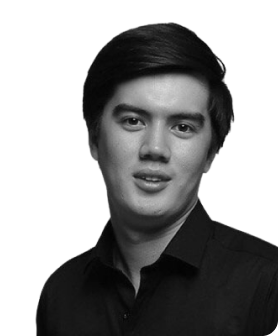
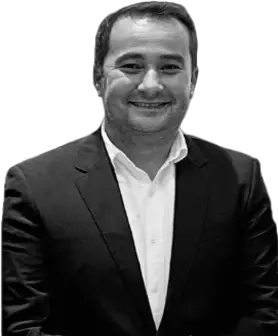
changes: CEO, Board Advisor, phone number, address

diff --git a/components/footer/Footer.jsx b/components/footer/Footer.jsx
@@ -32,7 +32,7 @@ function Footer() {
         console.log("Phone Clicked")
         try {
             generateETag('config', 'AW-10933023663/ZTcPCJ7qrNwDEK_not0o', {
-                'phone_conversion_number': '(332) 322-2244'
+                'phone_conversion_number': '(707) 717-4444'
             });
         } catch (e) {
             console.log("phone tracking", e)
@@ -83,7 +83,7 @@ function Footer() {
                     <li className={"text-white mb-3 text-16-24-400"}><Image width={20} height={20} src={FImage1}
                                                                             alt={"phone-icon"}/>&nbsp; &nbsp; <span
                         className={"text-white"}>
-                        <a href="tel:3323222244" onClick={handlePhoneClick}>(332) 322-2244</a>
+                        <a href="tel:3323222244" onClick={handlePhoneClick}>(707) 717-4444</a>
                     </span></li>
                     <li className={"text-white mb-3 text-16-24-400"}><Image width={20} height={20} src={FImage2}
                                                                             alt={"envelope-icon"}/>&nbsp; &nbsp;&nbsp;
@@ -95,11 +95,10 @@ function Footer() {
                                                                             alt={"location-icon"}/>&nbsp; &nbsp;<span
                         className={"text-white"}>
                         <a
-                            href="https://www.google.com/maps/place/8010+Sunport+Dr+STE+122,+Orlando,+FL+32809,+USA/@28.4503038,-81.3777283,17z/data=!3m1!4b1!4m5!3m4!1s0x88e77cfcf51958df:0xa3980848743cd73e!8m2!3d28.4502991!4d-81.3755396"
+                            href="https://www.google.com/maps/place/6925+Lake+Ellenor+Dr,+Orlando,+FL+32809/@28.4655806,-81.4023714,17z/data=!3m1!4b1!4m6!3m5!1s0x88e77d4979f909f9:0x7a5c0fe59d9724bd!8m2!3d28.4655759!4d-81.3997965!16s%2Fg%2F11kc745rrz?entry=ttu"
                             target={"#"}
                         >
-                        8010 Sunport Dr., Ste
-                        122, Orlando, Florida, 32809
+                        6925 Lake Ellenor Dr, <br/> &nbsp; &nbsp;&nbsp; &nbsp; &nbsp;Orlando, FL 32809
                     </a></span>
                     </li>
                 </ul>

diff --git a/pages/_home/EighthSection.jsx b/pages/_home/EighthSection.jsx
@@ -1,6 +1,6 @@
 import React from 'react';
 import Image from "next/image";
-import Human1 from '../../public/humans/image 33.png';
+import Human1 from '../../public/humans/kenny.png';
 import Human2 from '../../public/humans/image 34.png';
 import Human3 from '../../public/humans/image 35.png';
 import Human4 from '../../public/humans/image 36.png';
@@ -15,15 +15,15 @@ function EighthSection() {
                     <div className={"card-human2 overflow-hidden flex bg-blue-950 pt-16 rounded-2xl mb-4"}>
                         <Image src={Human2} alt={"human 2"}/>
                     </div>
-                    <p className={"text-20-24-700 mb-2"}>Kenny Abdul</p>
+                    <p className={"text-20-24-700 mb-2"}>Khusniddin Muradov</p>
                     <p className={"text-18-26-500 text-gray-450"}>Chief Executive Officer</p>
                 </div>
                 <div>
                     <div className={"card-human1 overflow-hidden flex bg-blue-950 pt-16 rounded-2xl mb-4"}>
                         <Image src={Human1} alt={"human 1"}/>
                     </div>
-                    <p className={"text-20-24-700 mb-2"}>Brett Fraser</p>
-                    <p className={"text-18-26-500 text-gray-450"}>Board Advisor</p>
+                    <p className={"text-20-24-700 mb-2"}>Kenny Abdul</p>
+                    <p className={"text-18-26-500 text-gray-450"}>Chief Operating Officer</p>
                 </div>
                 <div>
                     <div className={"card-human3 overflow-hidden flex bg-blue-950 pt-16 rounded-2xl mb-4"}>

diff --git a/pages/_home/Twelve.jsx b/pages/_home/Twelve.jsx
@@ -9,10 +9,10 @@ function Twelve() {
                 Sunshine state</h2>
                 <div data-aos={"fade-up"} data-aos-duration={"1000"} className={"h-80 flex items-end my-12 bg-rectangle"}>
                 <a
-                            href="https://www.google.com/maps/place/8010+Sunport+Dr+STE+122,+Orlando,+FL+32809,+USA/@28.4503038,-81.3777283,17z/data=!3m1!4b1!4m5!3m4!1s0x88e77cfcf51958df:0xa3980848743cd73e!8m2!3d28.4502991!4d-81.3755396"
+                            href="https://www.google.com/maps/place/6925+Lake+Ellenor+Dr,+Orlando,+FL+32809/@28.4655806,-81.4023714,17z/data=!3m1!4b1!4m6!3m5!1s0x88e77d4979f909f9:0x7a5c0fe59d9724bd!8m2!3d28.4655759!4d-81.3997965!16s%2Fg%2F11kc745rrz?entry=ttu"
                             target={"#"}
                         >
-                    <p className={"text-white text-30-44-600"} id={"faqs"} data-aos={"fade-up"} data-aos-duration={"1200"}>8010 Sunport dr, Suite #122, Orlando, FL 32809</p></a>
+                    <p className={"text-white text-30-44-600"} id={"faqs"} data-aos={"fade-up"} data-aos-duration={"1200"}>6925 Lake Ellenor Dr, Orlando, FL 32809</p></a>
                 </div>
             </div>
         </div>

diff --git a/components/navbar/Navbar.jsx b/components/navbar/Navbar.jsx
@@ -45,7 +45,7 @@ function Navbar() {
     const handlePhoneClick = () => {
         try {
             generateETag('config', 'AW-10933023663/ZTcPCJ7qrNwDEK_not0o', {
-                'phone_conversion_number': '(332) 322-2244'
+                'phone_conversion_number': '(707) 717-4444'
             });
         } catch (e) {
             console.log("phone tracking", e)
@@ -98,7 +98,7 @@ function Navbar() {
                     </li>
                     <li className={"nav-item phone hover:text-blue-550 cursor-pointer inline-block"}>
                         <a href="tel:3323222244" onClick={handlePhoneClick}
-                           className={!opened ? "nav-link phone" : "nav-link phone-mobile"}>(332) 322-2244</a>
+                           className={!opened ? "nav-link phone" : "nav-link phone-mobile"}>(707) 717-4444</a>
                     </li>
                 </ul>
             </nav>

diff --git a/pages/_home/index.js b/pages/_home/index.js
@@ -25,7 +25,7 @@ function HomePage() {
         <FifthSection/>
         <SixthSection/>
         <SeventhSection/>
-        {/* <EighthSection/> */}
+        <EighthSection/>
         <NinthSection/>
         <Ten/>
         {/* <Eleventh/> */}
